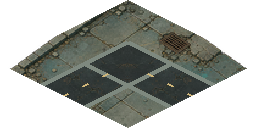
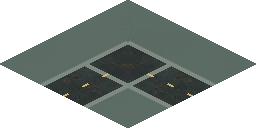
fix: flatten story a2 ground tiles

diff --git a/src/visual/storyAssetFiles.test.ts b/src/visual/storyAssetFiles.test.ts
@@ -13,6 +13,17 @@ interface PngInfo {
   bitDepth: number;
   colorType: number;
   transparentPixelCount: number;
+  rgbaPixels: Buffer;
+}
+
+interface LuminanceStats {
+  average: number;
+  standardDeviation: number;
+}
+
+interface DiamondFlatnessStats {
+  edge: LuminanceStats;
+  inner: LuminanceStats;
 }
 
 const A2_CITY_EXPECTED_DIMENSIONS: Record<
@@ -276,7 +287,108 @@ function readPngInfo(filePath: string): PngInfo {
     bitDepth,
     colorType,
     transparentPixelCount,
+    rgbaPixels,
   };
+}
+
+function getDiamondBandLuminanceStats(
+  png: PngInfo,
+  minDiamondDistance: number,
+  maxDiamondDistance: number,
+): LuminanceStats {
+  const centerX = png.width / 2;
+  const centerY = png.height / 2;
+  let count = 0;
+  let sum = 0;
+  let sumSquares = 0;
+
+  for (let y = 0; y < png.height; y += 1) {
+    for (let x = 0; x < png.width; x += 1) {
+      const normalizedX = Math.abs((x + 0.5 - centerX) / centerX);
+      const normalizedY = Math.abs((y + 0.5 - centerY) / centerY);
+      const diamondDistance = normalizedX + normalizedY;
+      if (
+        diamondDistance < minDiamondDistance ||
+        diamondDistance > maxDiamondDistance
+      ) {
+        continue;
+      }
+
+      const index = (y * png.width + x) * 4;
+      if (png.rgbaPixels[index + 3] < 220) {
+        continue;
+      }
+
+      const luminance =
+        0.2126 * png.rgbaPixels[index] +
+        0.7152 * png.rgbaPixels[index + 1] +
+        0.0722 * png.rgbaPixels[index + 2];
+      count += 1;
+      sum += luminance;
+      sumSquares += luminance * luminance;
+    }
+  }
+
+  expect(count).toBeGreaterThan(0);
+  const average = sum / count;
+  return {
+    average,
+    standardDeviation: Math.sqrt(sumSquares / count - average * average),
+  };
+}
+
+function getDiamondFlatnessStats(png: PngInfo): DiamondFlatnessStats {
+  return {
+    edge: getDiamondBandLuminanceStats(png, 0.78, 0.92),
+    inner: getDiamondBandLuminanceStats(png, 0.28, 0.62),
+  };
+}
+
+function getDiamondQuadrantAverageSpread(png: PngInfo): number {
+  const centerX = png.width / 2;
+  const centerY = png.height / 2;
+  const quadrants = {
+    northwest: { count: 0, sum: 0 },
+    northeast: { count: 0, sum: 0 },
+    southwest: { count: 0, sum: 0 },
+    southeast: { count: 0, sum: 0 },
+  };
+
+  for (let y = 0; y < png.height; y += 1) {
+    for (let x = 0; x < png.width; x += 1) {
+      const normalizedX = (x + 0.5 - centerX) / centerX;
+      const normalizedY = (y + 0.5 - centerY) / centerY;
+      if (Math.abs(normalizedX) + Math.abs(normalizedY) > 0.86) {
+        continue;
+      }
+
+      const index = (y * png.width + x) * 4;
+      if (png.rgbaPixels[index + 3] < 220) {
+        continue;
+      }
+
+      const luminance =
+        0.2126 * png.rgbaPixels[index] +
+        0.7152 * png.rgbaPixels[index + 1] +
+        0.0722 * png.rgbaPixels[index + 2];
+      const quadrant =
+        normalizedY < 0
+          ? normalizedX < 0
+            ? quadrants.northwest
+            : quadrants.northeast
+          : normalizedX < 0
+            ? quadrants.southwest
+            : quadrants.southeast;
+      quadrant.count += 1;
+      quadrant.sum += luminance;
+    }
+  }
+
+  const averages = Object.values(quadrants).map((quadrant) => {
+    expect(quadrant.count).toBeGreaterThan(0);
+    return quadrant.sum / quadrant.count;
+  });
+  return Math.max(...averages) - Math.min(...averages);
 }
 
 describe("story slice asset files", () => {
@@ -298,6 +410,22 @@ describe("story slice asset files", () => {
       expect(png.bitDepth).toBe(8);
       expect(png.colorType).toBe(6);
       expect(png.transparentPixelCount).toBeGreaterThan(0);
+    }
+  });
+
+  it("keeps the flat A2 ground tiles visually coplanar", () => {
+    const flatGroundAssets = [
+      "/assets/story-slice/a2-city/map/ground-concrete-flat-01.png",
+      "/assets/story-slice/a2-city/map/ground-wasteland-edge-flat-01.png",
+    ];
+
+    for (const assetPath of flatGroundAssets) {
+      const png = readPngInfo(publicAssetPath(assetPath));
+      const flatness = getDiamondFlatnessStats(png);
+
+      expect(flatness.inner.average - flatness.edge.average).toBeLessThan(6);
+      expect(flatness.edge.standardDeviation).toBeLessThan(18);
+      expect(getDiamondQuadrantAverageSpread(png)).toBeLessThan(2);
     }
   });
 });

diff --git a/src/visual/storySliceRenderer.ts b/src/visual/storySliceRenderer.ts
@@ -177,6 +177,29 @@ function getIsoGroundColor(kind: StoryIsoTileKind): number {
   return STORY_ART_PALETTE.wastelandOchre;
 }
 
+function isIsoMapBorderTile(
+  tile: StoryIsoTileDefinition,
+  isoMap: StoryIsoMapDefinition,
+): boolean {
+  const xValues = isoMap.tiles.map((candidate) => candidate.x);
+  const yValues = isoMap.tiles.map((candidate) => candidate.y);
+  const minX = Math.min(...xValues);
+  const maxX = Math.max(...xValues);
+  const minY = Math.min(...yValues);
+  const maxY = Math.max(...yValues);
+
+  if (minX === maxX || minY === maxY) {
+    return false;
+  }
+
+  return (
+    tile.x === minX ||
+    tile.x === maxX ||
+    tile.y === minY ||
+    tile.y === maxY
+  );
+}
+
 function getA2GroundTexturePath(
   tile: StoryIsoTileDefinition,
   isoMap: StoryIsoMapDefinition,
@@ -187,7 +210,7 @@ function getA2GroundTexturePath(
     ];
   }
 
-  if (tile.kind === "curb" || tile.kind === "rubble" || tile.kind === "stain") {
+  if (isIsoMapBorderTile(tile, isoMap)) {
     return STORY_SLICE_ASSETS.map.flatTiles.wastelandEdge;
   }
 

diff --git a/src/visual/storySliceRenderer.test.ts b/src/visual/storySliceRenderer.test.ts
@@ -341,9 +341,9 @@ describe("story slice renderer", () => {
       STORY_SLICE_ASSETS.map.flatTiles.concrete,
       STORY_SLICE_ASSETS.map.flatTiles.concrete,
       STORY_SLICE_ASSETS.map.flatTiles.concrete,
-      STORY_SLICE_ASSETS.map.flatTiles.wastelandEdge,
-      STORY_SLICE_ASSETS.map.flatTiles.wastelandEdge,
-      STORY_SLICE_ASSETS.map.flatTiles.wastelandEdge,
+      STORY_SLICE_ASSETS.map.flatTiles.concrete,
+      STORY_SLICE_ASSETS.map.flatTiles.concrete,
+      STORY_SLICE_ASSETS.map.flatTiles.concrete,
     ]);
   });
 
